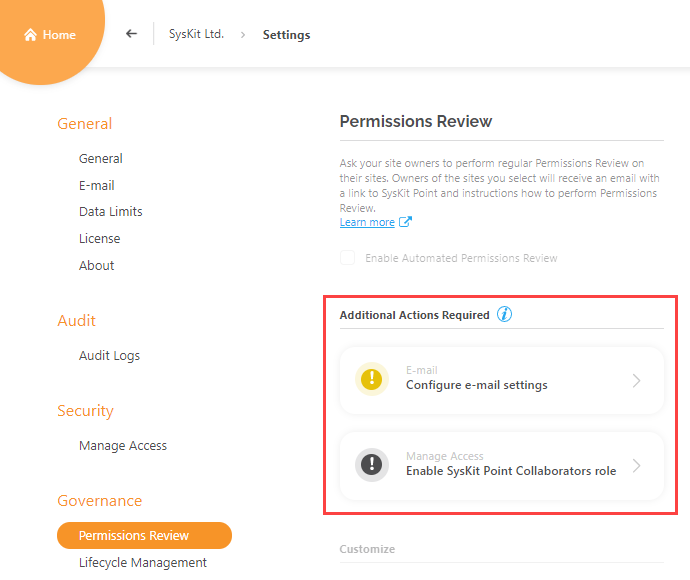
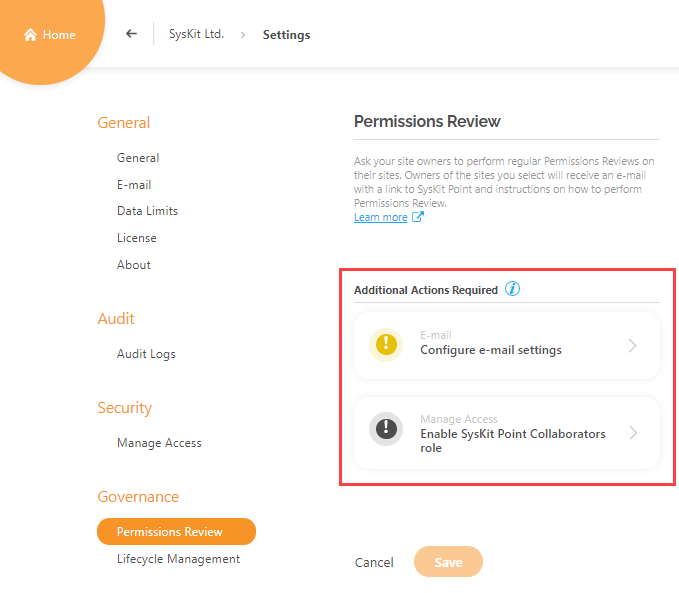
enable PR changes - pt 1

diff --git a/installation-and-configuration/enable-permissions-review.md b/installation-and-configuration/enable-permissions-review.md
@@ -4,7 +4,7 @@ description: >-
   Review in SysKit Point.
 ---
 
-# Enable Automated Permissions Review
+# Prerequisites
 
 {% hint style="warning" %}
 **Before you continue**, check if the Automated Permissions Review feature is included in your [subscription plan](https://www.syskit.com/products/point/pricing/).
@@ -14,7 +14,7 @@ To use the advantages of Automated Permissions Review in SysKit Point, you need 
 
 * **set up e-mail settings**
 * **enable SysKit Point Collaborators role**
-* **configure Permissions review settings**
+* **configure Automated Permissions Review with the help of Permissions Review Setup wizard**
 
 {% hint style="warning" %}
 **Please note!**  
@@ -85,9 +85,36 @@ To enable site owners to perform the permissions review on their sites, you need
 
 For more information about role-based access in SysKit Point, go to the [following article](enable-role-based-access.md).
 
-## **Enable Automated Permissions Review**
+# **Automated Permissions Review Setup**
 
-After you have successfully set up e-mail and enabled the SysKit Point Collaborators role, you can enable the Automated Permissions Review by marking the checkbox on the **Governance** &gt; **Permissions Review** screen. Click **Save** to be able to proceed with further customization.
+After you have successfully set up e-mail and enabled the SysKit Point Collaborators role, you can enable the Automated Permissions Review by clicking the **Enable Automated Permissions Review (1)** button on the **Governance** &gt; **Permissions Review** screen. The **Permissions Review Setup wizard** opens, guiding you through the Automated Permissions Review configuration.
+![Enable Automated Permissions Review button](../.gitbook/assets/enable-permissions-review_enable-button.png)
+
+The Permissions Review Wizard consists of several steps with reports and actions that enable Permissions Review customization. Let's examine each step in more detail.
+
+## **Overview**
+The **Overview step** provides basic information on how the Permissions Review Setup works.
+Here, you can see that the Permissions Review Setup will ask you to:
+* **Create or customize Permissions Review Policies (1)**
+* **Apply policies to Microsoft Teams, Microsoft 365 Groups, and sites (2)**
+* **Manage who will get the Permissions Review task (3)**
+Additionally, you can find information about:
+* **Permissions Review policies (4)**
+* **Reviewers (5)**
+To continue to the next step, click the **Start button (6)**.
+You can find the **Close Setup link (7)** on all steps in the Permissions Review Setup wizard, enabling you to leave the setup at any time. 
+
+![Automated Permissions Setup - Overview](../.gitbook/assets/enable-permissions-review_enable-button.png)
+
+## **Set Up Policies**
+
+## **Apply Policies**
+
+## **Manage Reviewers**
+
+## **Review Options**
+
+## **Summary**
 
 ### **Customize Permissions Review**
 
